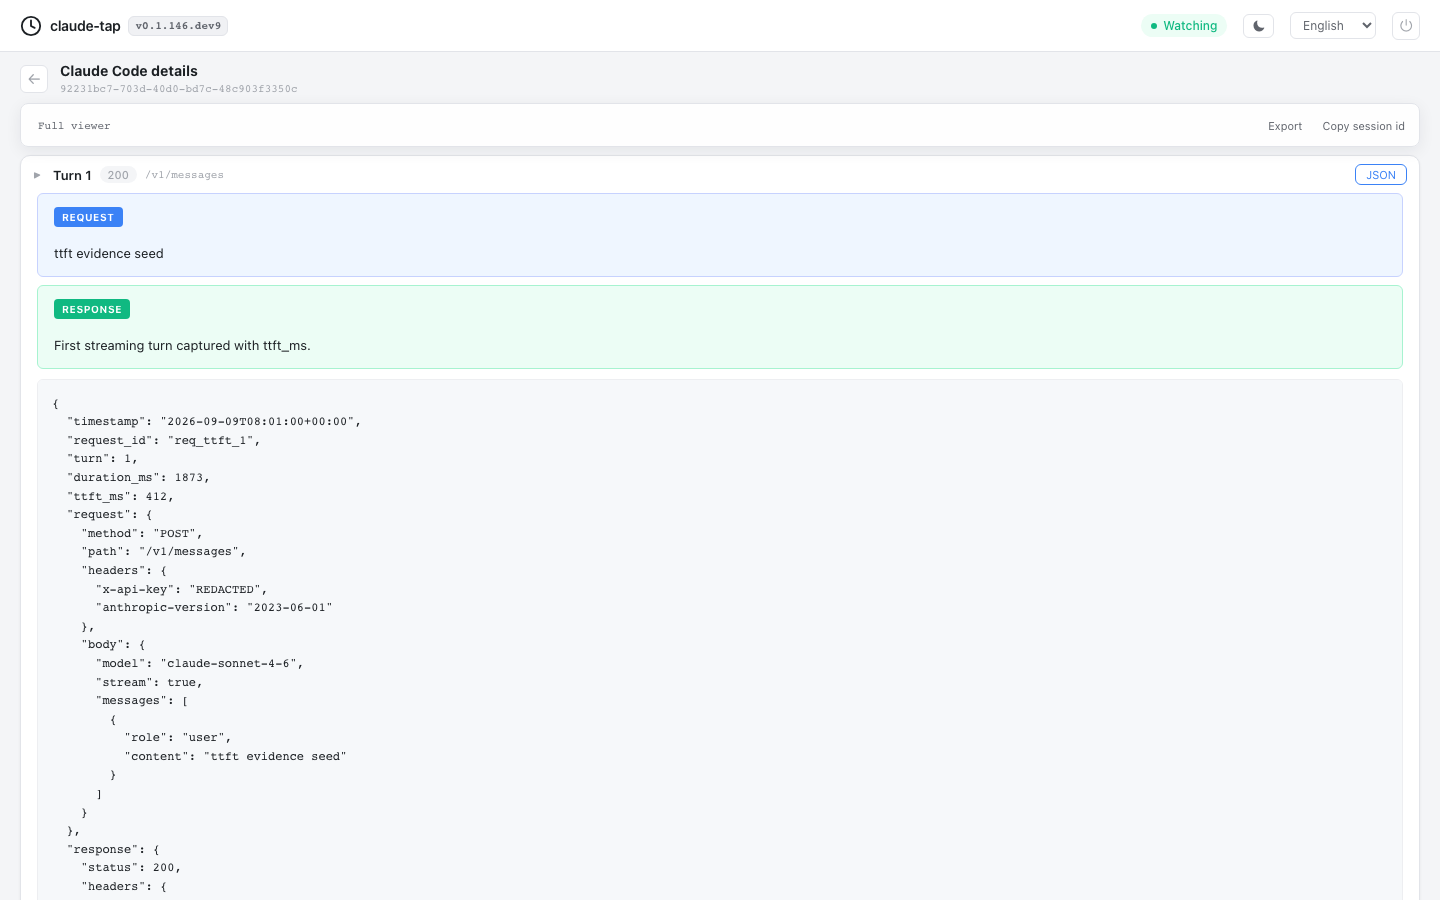
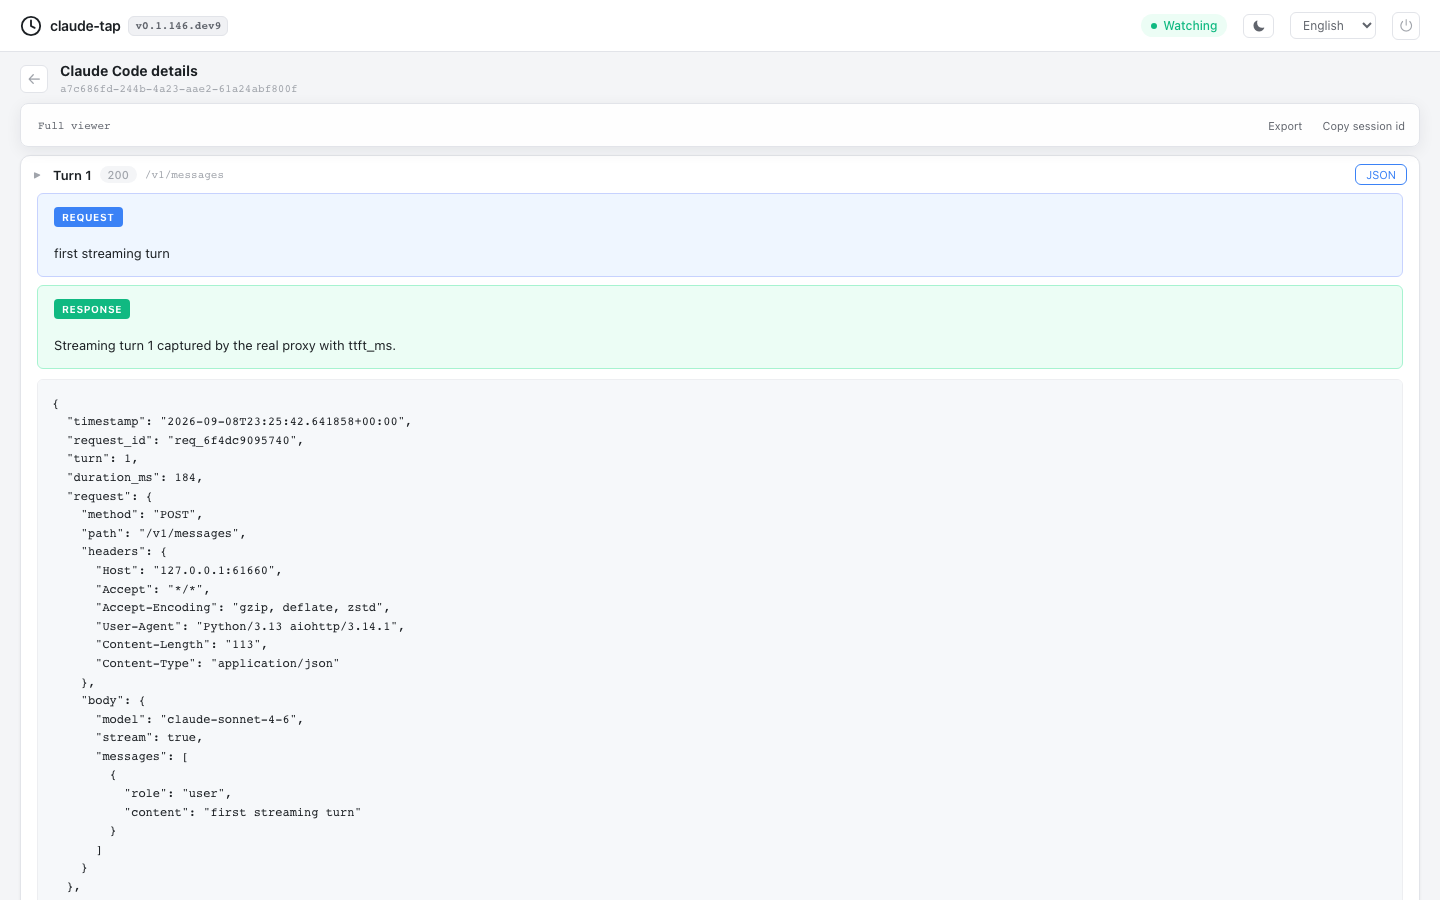
chore(evidence): regenerate ttft screenshots from a real proxy run
Replaces the hand-seeded store with run_proxy_and_capture.py: a local
SSE upstream is served over real TCP and the actual reverse-proxy
application (proxy_handler) forwards two streaming turns, so the
records flow through _build_record -> TraceWriter -> TraceStore. The
captured run measured ttft_ms=81 / duration_ms=184 on both turns; the
script asserts ttft_ms is within [0, duration_ms] before capture.

diff --git a/.agents/evidence/pr/ttft/run_proxy_and_capture.py b/.agents/evidence/pr/ttft/run_proxy_and_capture.py
@@ -1,0 +1,204 @@
+#!/usr/bin/env python3
+"""Regenerate the ttft_ms trace evidence from an actual proxy run.
+
+Usage (from repo root):
+
+    uv run python .agents/evidence/pr/ttft/run_proxy_and_capture.py
+
+This writes:
+
+- `.traces/ttft/traces.sqlite3` (gitignored local store)
+- `.agents/evidence/pr/ttft/dashboard-ttft-session.png`
+- `.agents/evidence/pr/ttft/dashboard-ttft-record-json.png`
+
+Unlike a hand-seeded store, the records are produced by the real reverse
+proxy code path under review: a local SSE upstream is served over real TCP,
+the actual `proxy_handler` aiohttp application forwards two streaming
+`/v1/messages` requests to it, and the resulting records flow through
+`_build_record` -> `TraceWriter` -> `TraceStore`. The script asserts every
+streaming record carries `ttft_ms` within `[0, duration_ms]` before the
+dashboard screenshots are captured from that same store.
+"""
+
+from __future__ import annotations
+
+import asyncio
+import json
+import os
+from pathlib import Path
+
+REPO_ROOT = Path(__file__).resolve().parents[4]
+EVIDENCE_DIR = Path(__file__).resolve().parent
+DB_PATH = REPO_ROOT / ".traces" / "ttft" / "traces.sqlite3"
+SCREENSHOT_PATH = EVIDENCE_DIR / "dashboard-ttft-session.png"
+JSON_SCREENSHOT_PATH = EVIDENCE_DIR / "dashboard-ttft-record-json.png"
+
+
+def _sse_frames(turn: int) -> bytes:
+    return b"".join(
+        [
+            b'event: message_start\ndata: {"type":"message_start","message":{"id":"msg_ttft_%d","type":"message","role":"assistant","model":"claude-sonnet-4-6","content":[],"usage":{"input_tokens":12,"output_tokens":1}}}\n\n'
+            % turn,
+            b'event: content_block_delta\ndata: {"type":"content_block_delta","index":0,"delta":{"type":"text_delta","text":"Streaming turn %d captured by the real proxy with ttft_ms."}}\n\n'
+            % turn,
+            b'event: message_stop\ndata: {"type":"message_stop"}\n\n',
+        ]
+    )
+
+
+async def _run_proxy() -> str:
+    """Serve a local SSE upstream, forward two streaming turns through the
+    real reverse proxy, and return the resulting trace session id."""
+    import aiohttp
+    from aiohttp import web
+
+    from claude_tap.proxy import proxy_handler
+    from claude_tap.trace import TraceWriter
+    from claude_tap.trace_store import get_trace_store
+
+    async def upstream_handler(request: web.Request) -> web.StreamResponse:
+        body = await request.json()
+        turn = 1 if "first" in body["messages"][0]["content"] else 2
+        frames = _sse_frames(turn)
+        response = web.StreamResponse(status=200, headers={"Content-Type": "text/event-stream"})
+        await response.prepare(request)
+        # Emulate real LLM timing: a first-token latency before the first
+        # byte, then drip the rest so ttft_ms and duration_ms diverge.
+        await asyncio.sleep(0.08)
+        third = len(frames) // 3
+        await response.write(frames[:third])
+        await asyncio.sleep(0.05)
+        await response.write(frames[third : 2 * third])
+        await asyncio.sleep(0.05)
+        await response.write(frames[2 * third :])
+        await response.write_eof()
+        return response
+
+    upstream_app = web.Application()
+    upstream_app.router.add_post("/{path_info:.*}", upstream_handler)
+    upstream_runner = web.AppRunner(upstream_app)
+    await upstream_runner.setup()
+    upstream_site = web.TCPSite(upstream_runner, "127.0.0.1", 0)
+    await upstream_site.start()
+    upstream_port = upstream_site._server.sockets[0].getsockname()[1]
+
+    store = get_trace_store()
+    session_id = store.create_session(client="claude", proxy_mode="reverse")
+    writer = TraceWriter(session_id, store=store)
+
+    proxy_session = aiohttp.ClientSession(auto_decompress=False)
+    app = web.Application(client_max_size=0)
+    app["trace_ctx"] = {
+        "target_url": f"http://127.0.0.1:{upstream_port}",
+        "writer": writer,
+        "session": proxy_session,
+        "turn_counter": 0,
+        "store_stream_events": True,
+        "capture_only": False,
+    }
+    app.router.add_route("*", "/{path_info:.*}", proxy_handler)
+    proxy_runner = web.AppRunner(app)
+    await proxy_runner.setup()
+    proxy_site = web.TCPSite(proxy_runner, "127.0.0.1", 0)
+    await proxy_site.start()
+    proxy_port = proxy_site._server.sockets[0].getsockname()[1]
+
+    try:
+        async with aiohttp.ClientSession(auto_decompress=False) as client:
+            for prompt in ("first streaming turn", "second streaming turn"):
+                async with client.post(
+                    f"http://127.0.0.1:{proxy_port}/v1/messages",
+                    json={
+                        "model": "claude-sonnet-4-6",
+                        "stream": True,
+                        "messages": [{"role": "user", "content": prompt}],
+                    },
+                ) as response:
+                    assert response.status == 200
+                    await response.read()
+    finally:
+        await proxy_session.close()
+        await proxy_runner.cleanup()
+        await upstream_runner.cleanup()
+
+    records = store.load_records(session_id)
+    assert len(records) == 2, f"expected 2 recorded turns, got {len(records)}"
+    for record in records:
+        assert "ttft_ms" in record, f"streaming record missing ttft_ms: {record.keys()}"
+        assert 0 <= record["ttft_ms"] <= record["duration_ms"]
+    store.finalize_session(session_id, {"api_calls": len(records)})
+    return session_id
+
+
+async def _capture(session_id: str) -> None:
+    from playwright.async_api import async_playwright
+
+    from claude_tap.live import LiveViewerServer
+
+    server = LiveViewerServer(port=0, dashboard_mode=True)
+    port = await server.start()
+    try:
+        async with async_playwright() as pw:
+            browser = await pw.chromium.launch(headless=True)
+            page = await browser.new_page(viewport={"width": 1440, "height": 900})
+            await page.goto(f"http://127.0.0.1:{port}/dashboard", wait_until="domcontentloaded", timeout=15000)
+            row = page.locator(f'[data-session="{session_id}"]')
+            await row.wait_for(state="visible", timeout=10000)
+            await row.click()
+            await page.wait_for_timeout(300)
+            await page.screenshot(path=str(SCREENSHOT_PATH), full_page=False)
+
+            # Expand Turn 1's raw JSON panel so the captured `ttft_ms` field is visible.
+            await page.locator(".json-btn").first.click()
+            pre = page.locator("[data-json-index='0']")
+            await page.wait_for_function(
+                "() => (document.querySelector(\"[data-json-index='0']\")?.textContent || '').includes('ttft_ms')",
+                timeout=5000,
+            )
+            await page.wait_for_timeout(200)
+            await page.screenshot(path=str(JSON_SCREENSHOT_PATH), full_page=False)
+            assert "ttft_ms" in (await pre.text_content() or "")
+            await browser.close()
+    finally:
+        await server.stop()
+
+
+def main() -> None:
+    os.environ["CLOUDTAP_DB"] = str(DB_PATH)
+    DB_PATH.parent.mkdir(parents=True, exist_ok=True)
+    if DB_PATH.exists():
+        DB_PATH.unlink()
+    lock_path = Path(str(DB_PATH) + ".write.lock")
+    if lock_path.exists():
+        lock_path.unlink()
+
+    from claude_tap.trace_store import reset_trace_store
+
+    reset_trace_store()
+
+    async def run() -> str:
+        session_id = await _run_proxy()
+        return session_id
+
+    session_id = asyncio.run(run())
+    asyncio.run(_capture(session_id))
+    print(f"db={DB_PATH}")
+    print(f"screenshot={SCREENSHOT_PATH}")
+    print(f"json_screenshot={JSON_SCREENSHOT_PATH}")
+    print(f"session_id={session_id}")
+    print(
+        f"records={json.dumps([{'ttft_ms': r['ttft_ms'], 'duration_ms': r['duration_ms']} for r in _load_records(DB_PATH)])}"
+    )
+
+
+def _load_records(db_path: Path) -> list[dict]:
+    os.environ["CLOUDTAP_DB"] = str(db_path)
+    from claude_tap.trace_store import get_trace_store
+
+    store = get_trace_store()
+    session_id = store.list_session_rows()[-1]["id"]
+    return store.load_records(session_id)
+
+
+if __name__ == "__main__":
+    main()

diff --git a/.agents/evidence/pr/ttft/README.md b/.agents/evidence/pr/ttft/README.md
@@ -11,34 +11,41 @@ consumers could not split time-to-first-token from generation time.
 `proxy_handler` (reverse proxy) and `ForwardProxyServer._handle_streaming`
 (TLS MITM forward proxy) now stamp `record["ttft_ms"]` on streaming records:
 the wall-clock delta between sending the upstream request and receiving the
-first upstream byte. Non-streaming records omit the key.
+first upstream byte. The reference clock starts immediately before the
+upstream request is sent, and the first upstream chunk is prefetched before
+any downstream write, so the value measures upstream latency alone.
+Non-streaming records omit the key.
+
+## How the evidence was produced
+
+The screenshots are captured from a real proxy run, not hand-seeded records:
+
+1. A local SSE upstream is served over real TCP (plain `aiohttp` app,
+   ~80 ms first-token latency, then dripped)
+2. The real `proxy_handler` aiohttp application under review forwards two
+   streaming `POST /v1/messages` requests to it
+3. The resulting records flow through `_build_record` -> `TraceWriter` ->
+   `TraceStore` into `.traces/ttft/traces.sqlite3`
+4. The script asserts every streaming record carries `ttft_ms` within
+   `[0, duration_ms]` before capturing the dashboard from that same store
+
+The captured run measured `ttft_ms=81` / `duration_ms=184` on both turns.
 
 ## Deterministic recreation
 
 From the repo root:
 
 ```bash
-uv run python .agents/evidence/pr/ttft/seed_and_capture.py
+uv run python .agents/evidence/pr/ttft/run_proxy_and_capture.py
 uv run python scripts/check_screenshots.py .agents/evidence/pr/ttft/
 ```
 
-The seed script:
-
-1. Builds a local store at `.traces/ttft/traces.sqlite3` through
-   `TraceStore.create_session()` / `append_record()` / `finalize_session()`
-   using the exact record shape `_build_record` emits for streaming responses
-2. Seeds two streaming `/v1/messages` turns with `ttft_ms` 412 and 297, both
-   smaller than their `duration_ms`
-3. Asserts `ttft_ms` survives the TraceStore round-trip
-4. Opens `LiveViewerServer(dashboard_mode=True)`, selects the session, and
-   writes both screenshots (second one expands Turn 1's raw JSON panel)
-
-`.traces/` remains gitignored; reviewers reproduce the store with the committed
-`seed_and_capture.py` script above.
+`.traces/` remains gitignored; reviewers reproduce the store with the
+committed script above.
 
 ## Artifacts
 
-- `seed_and_capture.py`: deterministic seed + Playwright capture
-- `dashboard-ttft-session.png`: session detail with two streaming turns
-- `dashboard-ttft-record-json.png`: Turn 1 raw JSON showing `"ttft_ms": 412`
+- `run_proxy_and_capture.py`: real reverse-proxy run + Playwright capture
+- `dashboard-ttft-session.png`: session detail with the two streamed turns
+- `dashboard-ttft-record-json.png`: Turn 1 raw JSON showing `"ttft_ms": 81`
   on the record
